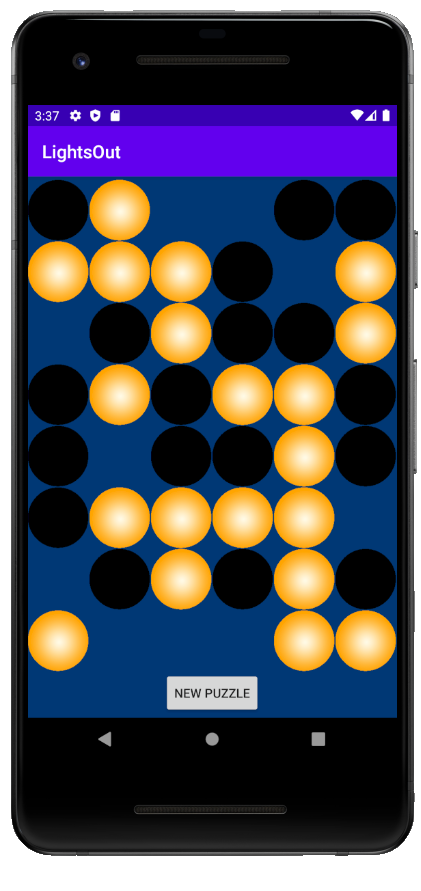
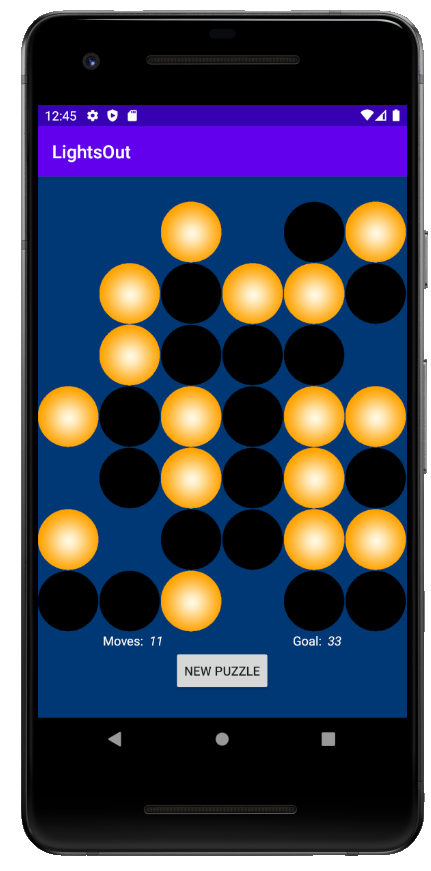
Adding challenges / scores

diff --git a/app/src/main/java/com/example/lightsout/Board.java b/app/src/main/java/com/example/lightsout/Board.java
@@ -2,17 +2,20 @@ package com.example.lightsout;
 
 public class Board {
     private Cell[][] board;
+    private int minMoves;
+    private int moves;
 
     // Constructor
     public Board(int height, int width){
         board = new Cell[height][width];
+        minMoves = 0;
 
         // We then iterate through the board and decide whether each cell should be active.
         for (int i = 0; i < board.length; i++) {
             for (int j = 0; j < board[i].length; j++) {
                 board[i][j] = new Cell();
-                board[i][j].setOn(true);
                 board[i][j].setActive(true);
+                board[i][j].setOn(false);
                 // A cell has a somewhat random probability of being active or not.
                 double probability = 0.1;
                 if (i == 0 || i == board.length - 1 || j == 0 || j == board[i].length - 1) {
@@ -25,6 +28,10 @@ public class Board {
         }
     }
 
+    public int getMinMoves(){return minMoves;}
+
+    public int getMoves(){return moves;}
+
     public Cell[][] getBoard(){
         return board;
     }
@@ -36,18 +43,21 @@ public class Board {
         if (height >= board.length || width >= board[0].length){
             throw new IllegalArgumentException();
         }
-        board[height][width].toggleLight();
-        if (height - 1 >= 0){
-            board[height - 1][width].toggleLight();
-        }
-        if (height + 1 < board.length){
-            board[height + 1][width].toggleLight();
-        }
-        if (width - 1 >= 0){
-            board[height][width - 1].toggleLight();
-        }
-        if (width + 1 < board[0].length){
-            board[height][width + 1].toggleLight();
+        if (board[height][width].getActive()) {
+            board[height][width].toggleLight();
+            if (height - 1 >= 0 && board[height - 1][width].getActive()) {
+                board[height - 1][width].toggleLight();
+            }
+            if (height + 1 < board.length && board[height + 1][width].getActive()) {
+                board[height + 1][width].toggleLight();
+            }
+            if (width - 1 >= 0 && board[height][width - 1].getActive()) {
+                board[height][width - 1].toggleLight();
+            }
+            if (width + 1 < board[0].length && board[height][width+1].getActive()) {
+                board[height][width + 1].toggleLight();
+            }
+            moves++;
         }
     }
 
@@ -65,13 +75,19 @@ public class Board {
 
     // Randomly toggles lights
     public void randomize(){
+        minMoves = 0;
         for (int i = 0; i < board.length; i++){
             for (int j = 0; j < board[i].length; j++) {
-                double probability = 0.35;
-                if (Math.random() < probability && board[i][j].getActive()) {
-                    board[i][j].toggleLight();
+                if (board[i][j].getActive()) {
+                    double probability = 0.65;
+                    if(Math.random() < probability){
+                        click(i,j);
+                        minMoves++;
+                    }
                 }
             }
         }
+        moves = 0;
+        minMoves = minMoves + 3;
     }
 }

diff --git a/app/src/main/java/com/example/lightsout/HardGame.java b/app/src/main/java/com/example/lightsout/HardGame.java
@@ -5,18 +5,21 @@ import androidx.appcompat.app.AppCompatActivity;
 import android.os.Bundle;
 import android.view.View;
 import android.widget.ImageButton;
+import android.widget.TextView;
 import android.widget.Toast;
 
 public class HardGame extends AppCompatActivity {
     GameController game;
     ImageButton[][] buttons;
+    TextView moves;
+    TextView minMoves;
 
     @Override
     protected void onCreate(Bundle savedInstanceState) {
         super.onCreate(savedInstanceState);
         setContentView(R.layout.activity_hard_game);
 
-        buttons = new ImageButton[8][6];
+        buttons = new ImageButton[7][6];
         buttons[0][0] = (ImageButton) findViewById(R.id.imageButton42);
         buttons[0][1] = (ImageButton) findViewById(R.id.imageButton43);
         buttons[0][2] = (ImageButton) findViewById(R.id.imageButton44);
@@ -66,14 +69,10 @@ public class HardGame extends AppCompatActivity {
         buttons[6][4] = (ImageButton) findViewById(R.id.imageButton82);
         buttons[6][5] = (ImageButton) findViewById(R.id.imageButton83);
 
-        buttons[7][0] = (ImageButton) findViewById(R.id.imageButton84);
-        buttons[7][1] = (ImageButton) findViewById(R.id.imageButton85);
-        buttons[7][2] = (ImageButton) findViewById(R.id.imageButton86);
-        buttons[7][3] = (ImageButton) findViewById(R.id.imageButton87);
-        buttons[7][4] = (ImageButton) findViewById(R.id.imageButton88);
-        buttons[7][5] = (ImageButton) findViewById(R.id.imageButton89);
+        moves = (TextView) findViewById(R.id.textView11);
+        minMoves = (TextView) findViewById(R.id.textView13);
 
-        game = new GameController(buttons);
+        game = new GameController(buttons, moves, minMoves);
         game.updateView();
     }
 
@@ -206,32 +205,14 @@ public class HardGame extends AppCompatActivity {
             case R.id.imageButton83:
                 game.click(6, 5);
                 break;
-            case R.id.imageButton84:
-                game.click(7, 0);
-                break;
-            case R.id.imageButton85:
-                game.click(7, 1);
-                break;
-            case R.id.imageButton86:
-                game.click(7, 2);
-                break;
-            case R.id.imageButton87:
-                game.click(7, 3);
-                break;
-            case R.id.imageButton88:
-                game.click(7, 4);
-                break;
-            case R.id.imageButton89:
-                game.click(7, 5);
-                break;
             case R.id.button7:
-                game = new GameController(buttons);
+                game = new GameController(buttons, moves, minMoves);
                 game.updateView();
                 break;
         }
         game.updateView();
         if (game.hasWon()){
-            Toast.makeText(getApplicationContext(),"You've won! You really are a master of this game.",Toast.LENGTH_LONG).show();
+            Toast.makeText(getApplicationContext(),game.getWinMessage(),Toast.LENGTH_LONG).show();
         }
     }
 }

diff --git a/app/src/main/java/com/example/lightsout/GameController.java b/app/src/main/java/com/example/lightsout/GameController.java
@@ -2,17 +2,24 @@ package com.example.lightsout;
 
 import android.view.View;
 import android.widget.ImageButton;
+import android.widget.TextView;
 import android.widget.Toast;
+
+import org.w3c.dom.Text;
 
 public class GameController {
     Board board;
     Cell[][] cells;
     ImageButton[][] buttons;
+    TextView moves;
+    TextView minMoves;
 
-    public GameController(ImageButton[][] buttonsArray){
+    public GameController(ImageButton[][] buttonsArray, TextView moves, TextView minMoves){
         buttons = buttonsArray;
         board = new Board(buttons.length, buttons[0].length);
         board.randomize();
+        this.moves = moves;
+        this.minMoves = minMoves;
         updateView();
     }
 
@@ -36,6 +43,8 @@ public class GameController {
                 }
             }
         }
+        moves.setText(Integer.toString(board.getMoves()));
+        minMoves.setText(Integer.toString(board.getMinMoves()));
     }
 
     public void click(int i, int j){
@@ -45,5 +54,32 @@ public class GameController {
 
     public boolean hasWon(){
         return (board.hasWon());
+    }
+
+    public String getWinMessage(){
+        if (board.getMoves() < board.getMinMoves() && board.getMoves() > board.getMinMoves() - 3){
+            return "You beat it within the target number of moves. Great work!";
+        }
+        else if (board.getMoves() <= board.getMinMoves()-3){
+            return "You beat it very quickly. You must be gifted. Or a cheater. Or a gifted cheater";
+        }
+        else if (board.getMoves() == board.getMinMoves() * 2){
+            return "You took twice the number of moves it takes. Let's see if you can get that down!";
+        }
+        else if (board.getMoves() == board.getMinMoves() * 3){
+            return "You took triple the number of moves it takes. Surely you can do it faster!";
+        }
+        else if (board.getMoves() <= board.getMinMoves() + 5){
+            return "Very well played. Can you get the minimum, though?";
+        }
+        else if (board.getMoves() <= board.getMinMoves() + 10){
+            return "Good work. Can you beat it faster?";
+        }
+        else if (board.getMoves() <= board.getMinMoves() * 4){
+            return "Hey, at least you beat it. Why not give it another go?";
+        }
+        else{
+            return "Keep trying! You'll get better as you play.";
+        }
     }
 }

diff --git a/app/src/main/java/com/example/lightsout/EasyGame.java b/app/src/main/java/com/example/lightsout/EasyGame.java
@@ -5,11 +5,14 @@ import androidx.appcompat.app.AppCompatActivity;
 import android.os.Bundle;
 import android.view.View;
 import android.widget.ImageButton;
+import android.widget.TextView;
 import android.widget.Toast;
 
 public class EasyGame extends AppCompatActivity {
     GameController game;
     ImageButton[][] buttons;
+    TextView moves;
+    TextView minMoves;
     @Override
     protected void onCreate(Bundle savedInstanceState) {
         super.onCreate(savedInstanceState);
@@ -32,8 +35,10 @@ public class EasyGame extends AppCompatActivity {
         buttons[3][1] = (ImageButton) findViewById(R.id.imageButton14);
         buttons[3][2] = (ImageButton) findViewById(R.id.imageButton15);
         buttons[3][3] = (ImageButton) findViewById(R.id.imageButton16);
+        moves = (TextView) findViewById(R.id.textView11);
+        minMoves = (TextView) findViewById(R.id.textView13);
 
-        game = new GameController(buttons);
+        game = new GameController(buttons, moves, minMoves);
     }
 
     public void onClick(View v) {
@@ -88,13 +93,13 @@ public class EasyGame extends AppCompatActivity {
                 game.click(3,3);
                 break;
             case R.id.button4:
-                game = new GameController(buttons);
+                game = new GameController(buttons, moves, minMoves);
                 game.updateView();
                 break;
         }
         game.updateView();
         if (game.hasWon()){
-            Toast.makeText(getApplicationContext(),"You've won! Maybe you should give Medium difficulty a try?",Toast.LENGTH_LONG).show();
+            Toast.makeText(getApplicationContext(),game.getWinMessage(),Toast.LENGTH_LONG).show();
         }
     }
 }

diff --git a/app/src/main/java/com/example/lightsout/MediumGame.java b/app/src/main/java/com/example/lightsout/MediumGame.java
@@ -5,11 +5,14 @@ import androidx.appcompat.app.AppCompatActivity;
 import android.os.Bundle;
 import android.view.View;
 import android.widget.ImageButton;
+import android.widget.TextView;
 import android.widget.Toast;
 
 public class MediumGame extends AppCompatActivity {
     GameController game;
     ImageButton[][] buttons;
+    TextView moves;
+    TextView minMoves;
 
     @Override
     protected void onCreate(Bundle savedInstanceState) {
@@ -41,7 +44,9 @@ public class MediumGame extends AppCompatActivity {
         buttons[4][2] = (ImageButton) findViewById(R.id.imageButton39);
         buttons[4][3] = (ImageButton) findViewById(R.id.imageButton40);
         buttons[4][4] = (ImageButton) findViewById(R.id.imageButton41);
-        game = new GameController(buttons);
+        moves = (TextView) findViewById(R.id.textView11);
+        minMoves = (TextView) findViewById(R.id.textView13);
+        game = new GameController(buttons, moves, minMoves);
     }
 
     public void onClick(View v) {
@@ -123,13 +128,13 @@ public class MediumGame extends AppCompatActivity {
                 game.click(4, 4);
                 break;
             case R.id.button6:
-                game = new GameController(buttons);
+                game = new GameController(buttons, moves, minMoves);
                 game.updateView();
                 break;
         }
         game.updateView();
         if (game.hasWon()){
-            Toast.makeText(getApplicationContext(),"You've won! Are you ready to give Hard a try?",Toast.LENGTH_LONG).show();
+            Toast.makeText(getApplicationContext(),game.getWinMessage(),Toast.LENGTH_LONG).show();
         }
     }
 }

diff --git a/README.md b/README.md
@@ -21,11 +21,13 @@ I originally made this game as part of an Intro to Computing class in Swing, alo
 
 * A graphical user interface to display the ongoing game.
 
+* Keeps track of moves with a challenge number of moves to achieve.
+
 * Easy, Medium, and Hard difficulties, each with a different sized grid.
 
-* Ability to create new puzzles as desired.
+* Ability to create new puzzles as desired (either when giving up or finishing a puzzle)
 
-* Determines when a game has been won.
+* Determines when a game has been won and gives a congratulations.
 
 ## Play!
 
